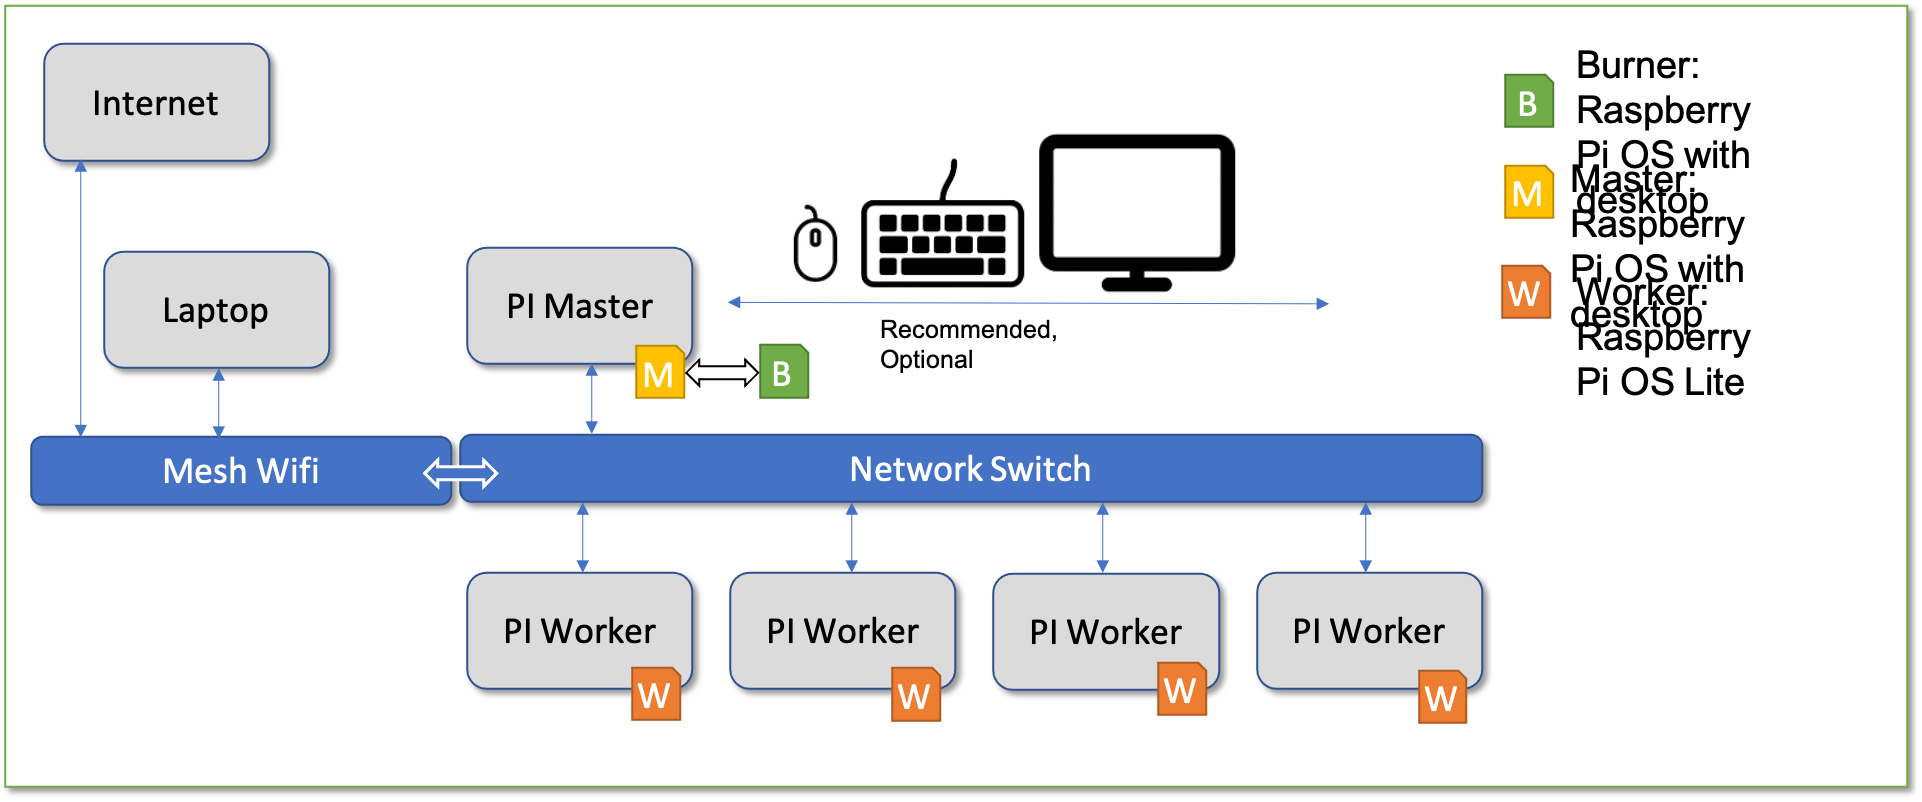
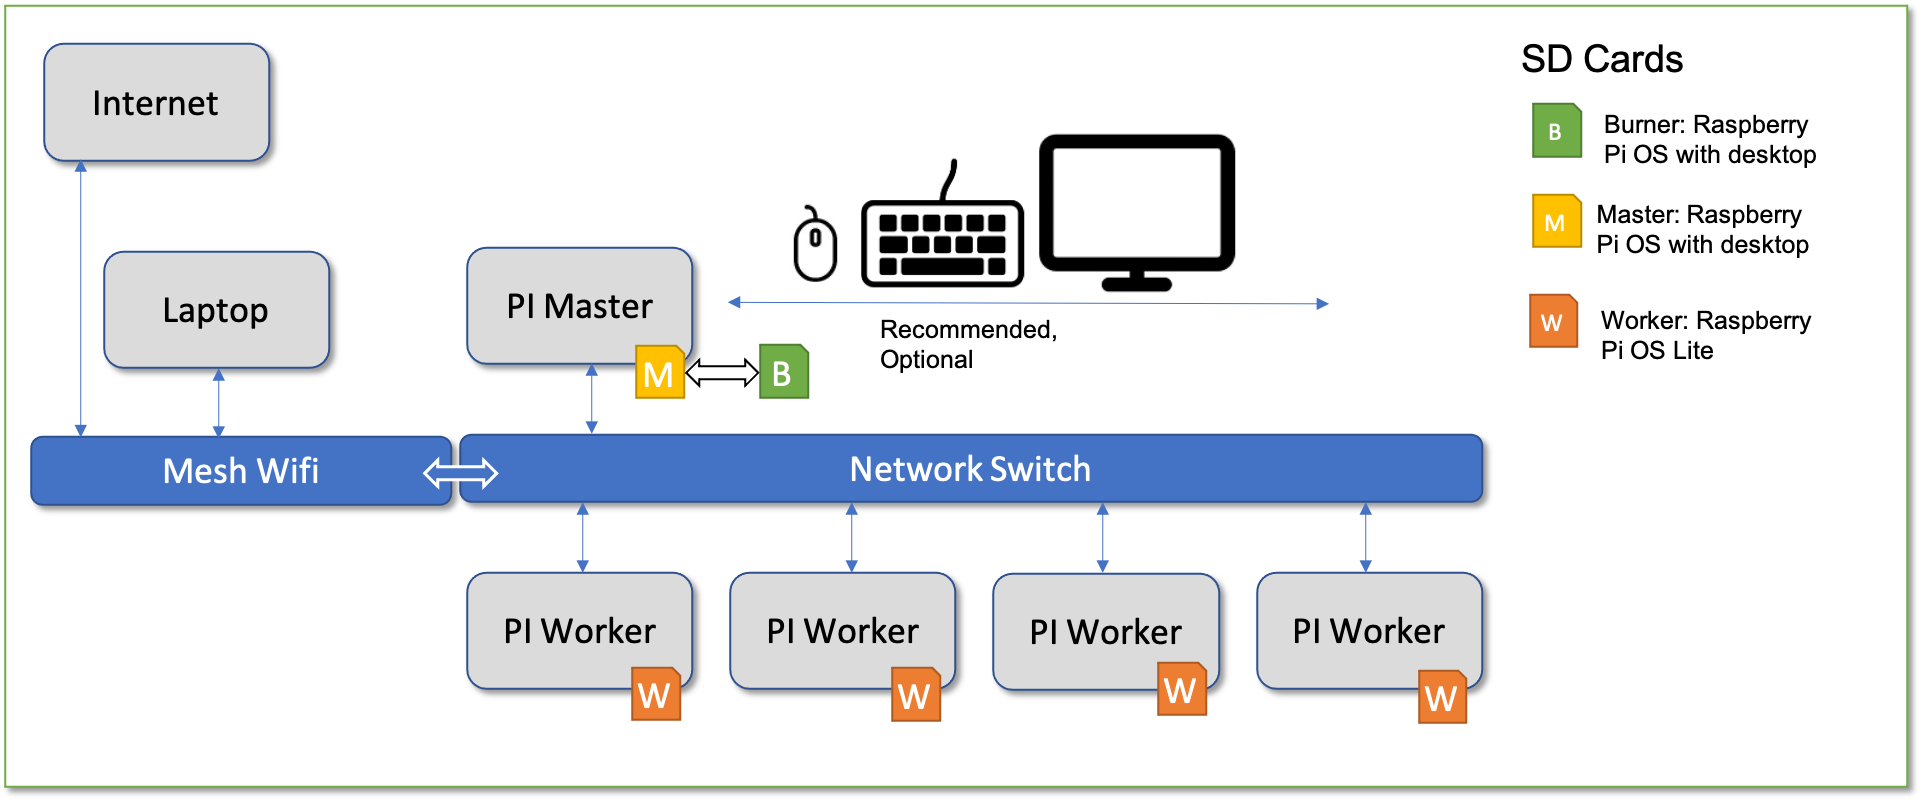
improve images

diff --git a/README.md b/README.md
@@ -276,6 +276,11 @@ into each node via its hostname. For example, if one of our workers is
 
 Gregor does this.
 
+![](images/network-mesh.png)
+
+Figure: Networking with bridge
+
+
 ## Manual burn
 
 <!--MANUAL-BURN-->
